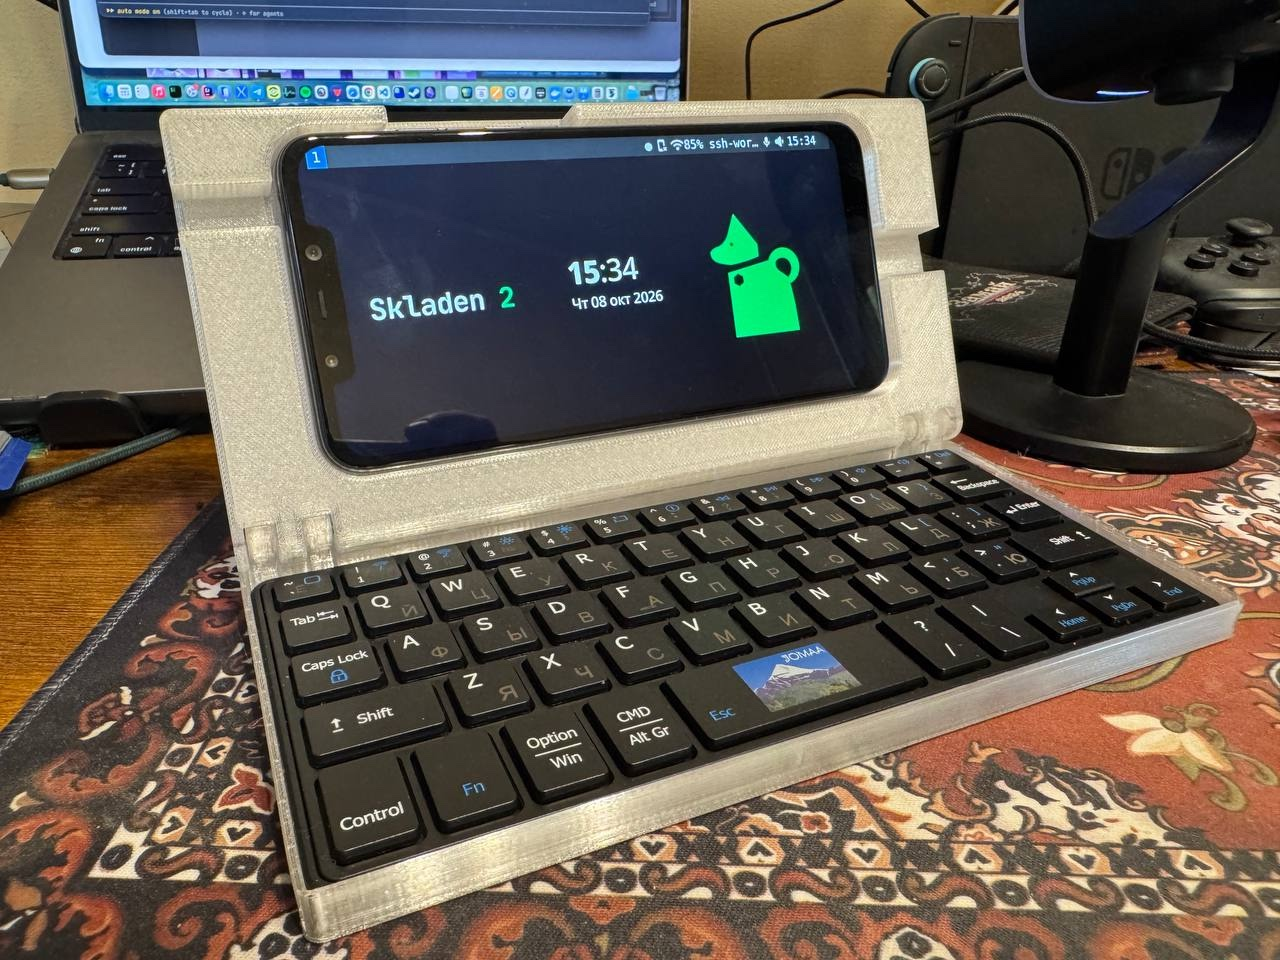
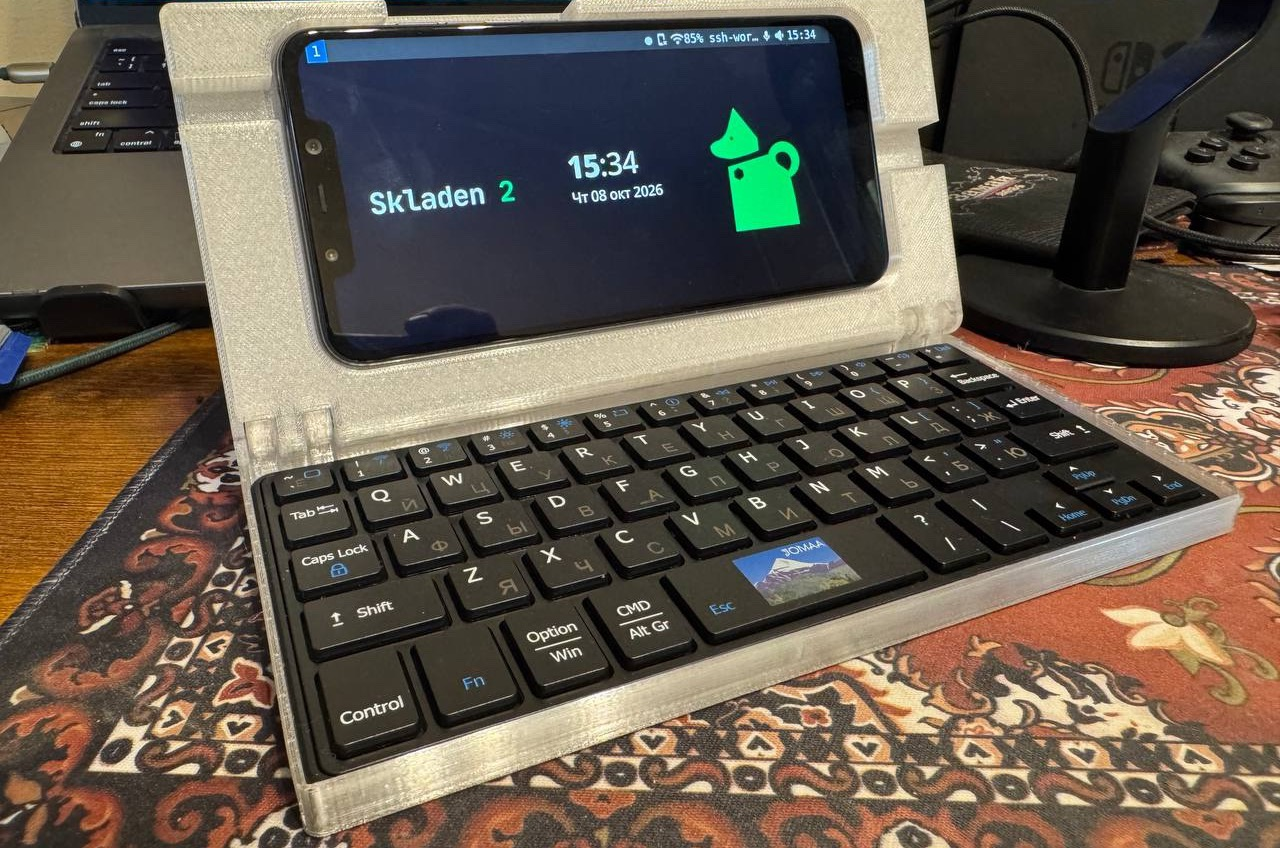
Add a changelog; crop the terminal out of the photo

diff --git a/CHANGELOG.md b/CHANGELOG.md
@@ -1,0 +1,58 @@
+# Changelog
+
+Versions follow [semantic versioning](https://semver.org/) applied to hardware:
+**major** when parts no longer interchange (another phone, keyboard or hinge),
+**minor** for a compatible addition or option, **patch** for fixes to dimensions,
+tolerances or documentation. Tags mark the commit a version was printed from;
+design reasons are in [docs/adr/](docs/adr/README.md).
+
+## [Unreleased] — 2.1.0, front bezel (modelled, not printed)
+
+Planned tag `v2.1.0-rc1` once the bezel is printed; `v2.1.0` when it fits.
+
+### Added
+- **Clip-on front bezel** and a lid for it as a separate export, `export/bezel/`: a
+  0.8 mm frame covering the whole front, ten snap clips and no screws, a window over
+  the screen and one over the phone's buttons, a nick for prying it off. The phone
+  sits 1.0 mm behind the face instead of on tape, so the closed height stays 24.29 mm
+  ([ADR-0012](docs/adr/0012-removable-front-bezel.md)).
+- Lid ends hollowed from the screen side to save mass; tipping checked with the
+  slicer's printed masses (1.154 at 150 deg, 1.000 at 180 deg).
+- Two-colour logo lid for the bezel: a Bambu Studio project refilled from
+  `cad/templates/` by `cad/bambu_project.py`, with the inlay placed exactly.
+- [ADR-0013](docs/adr/0013-usbc-extender.md): what size of USB-C extender to buy.
+- [docs/sourcing.md](docs/sourcing.md): where the Jomaa keyboard and its look-alikes
+  (Doohoeek, CACOE) are sold.
+
+### Changed
+- The phone's USB-C slot in the lid is 9.0 mm tall (was 7.0): the plug was too tight.
+
+### Deferred
+- A steel strip under the base and further lid lightening, to lift the 180 deg
+  margin above 1.0 ([plan.md](docs/plan.md)).
+
+## [2.0.0] — 2026-10-06, Pocophone F1 (printed, in use)
+
+Skladen 2: Mk3 re-parametrised for a Xiaomi Pocophone F1 (155.5 x 75.3 x 9.25 mm,
+182 g). Keyboard, base, hinge and power-switch shuttle unchanged from 1.0.0.
+Phone held by 1.0 mm double-sided tape.
+
+### Added
+- Lid pocket for the Pocophone F1, button window and camera cutout read from
+  `refs/fun.fbx`; a slot in the lid's left end for the 3.5 mm headphone jack
+  ([ADR-0011](docs/adr/0011-phone-swap-pocophone-f1.md)).
+- A phone-fit coupon: the lid's left end.
+
+### Changed
+- Closed height 24.29 mm at the rear (1.0.0: 23.24); N1's hard limit raised to 25.0 mm,
+  mass budget N4 to 420 g.
+- Pocket thickness from the caliper, 9.25 mm.
+- Hinge holding torque recomputed for the heavier lid.
+
+## [1.0.0] — 2026-10-02, Skladen 1 / Mk3 (Pixel 3a XL)
+
+The first printed design: a clamshell around a Pixel 3a XL and a Jomaa KEYBOARD098RU
+salvaged from its folio case. Kept at tag `v1.0.0` and on branch `v1`.
+
+- Parametric build123d model with checks, ADRs 0001-0010, hinge coupons and the
+  power-switch shuttle, the Mitya Computer logo lid, licence CERN-OHL-S-2.0.
